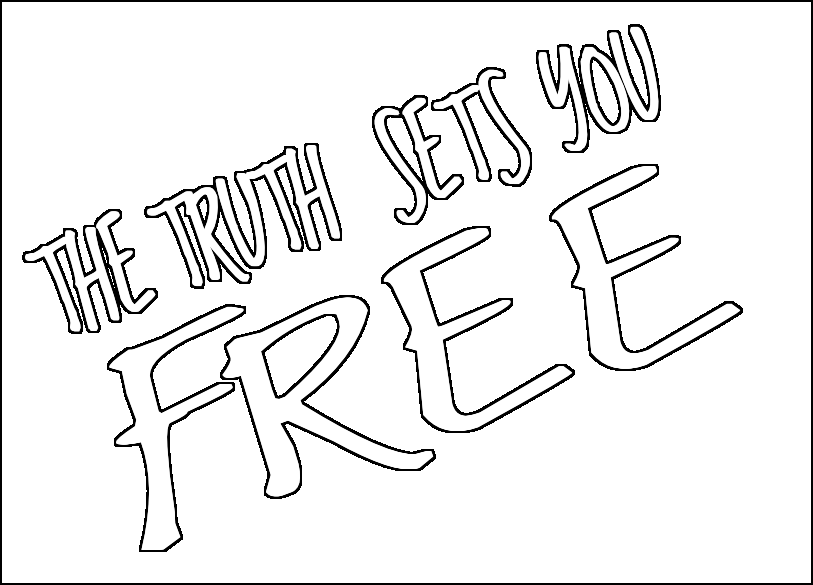
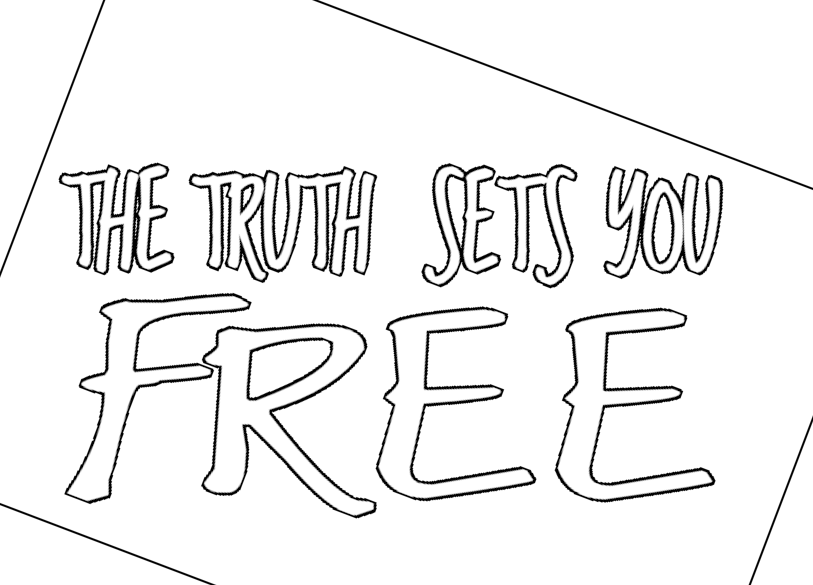
slight outro end graffiti finetuning

diff --git a/sceneOutro/outro.js b/sceneOutro/outro.js
@@ -59,8 +59,8 @@ Demo.prototype.sceneOutro = function () {
           image: 'images/end_graffiti.png',
           perspective: "3d",
           position: [{
-              x: 0,
-              y: 0,
+              x: -0.3,
+              y: 1.0,
               z: -.15
             }],
           scale: [{ uniform3d: 3.5 }],
@@ -71,6 +71,14 @@ Demo.prototype.sceneOutro = function () {
            // depthWrite: true,
             blending: 'NormalBlending'
           },
+          angle: [
+            {
+              degreesZ: 17,
+            }
+          ],
+          shader:{
+            name: 'sceneOutro/graffiti.fs'
+          }     
         }
       ]);
 
